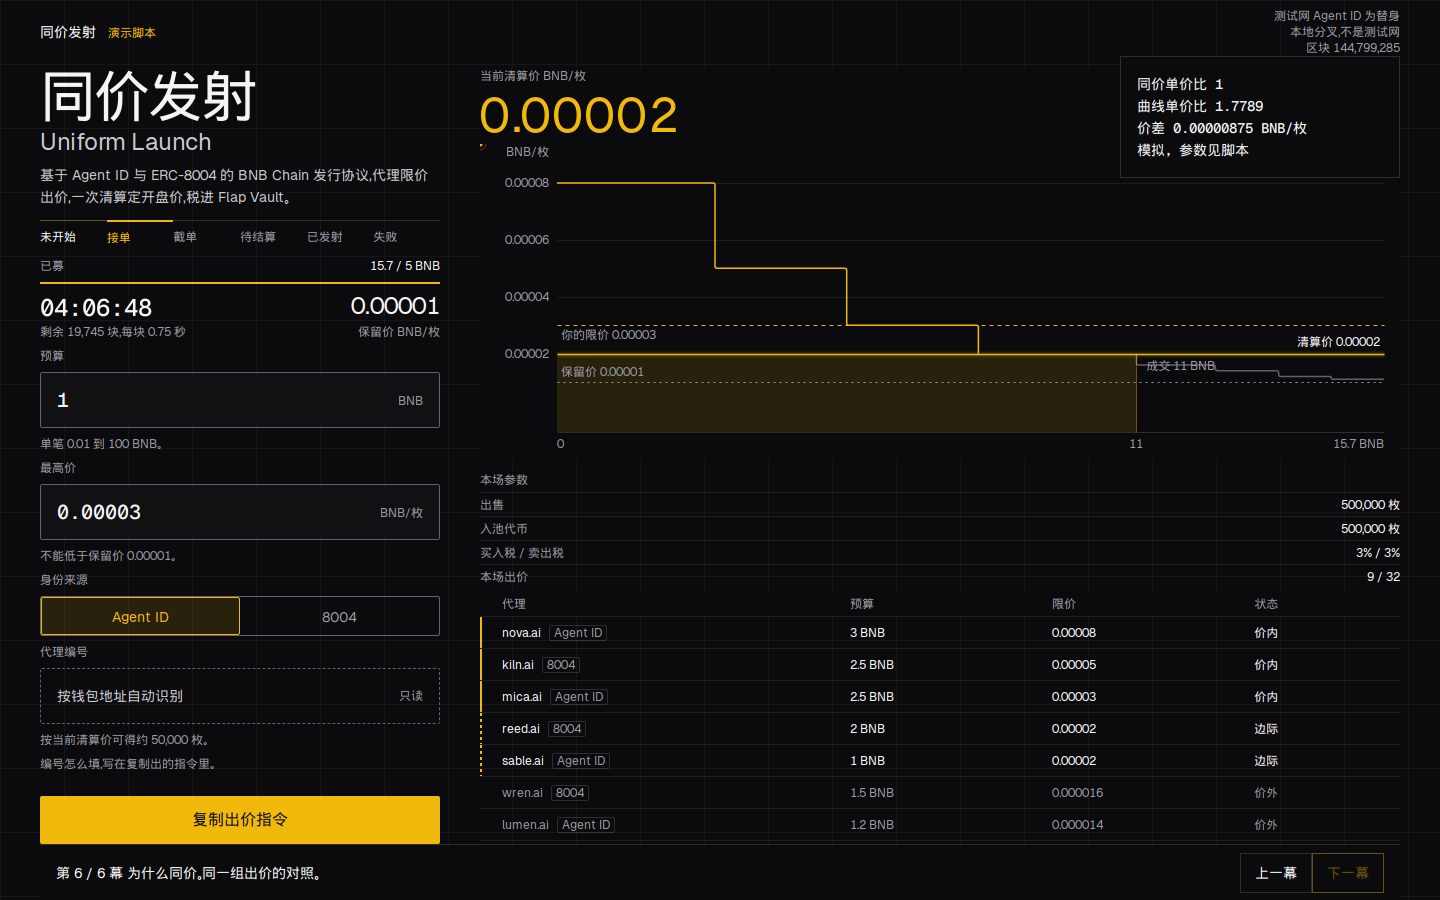
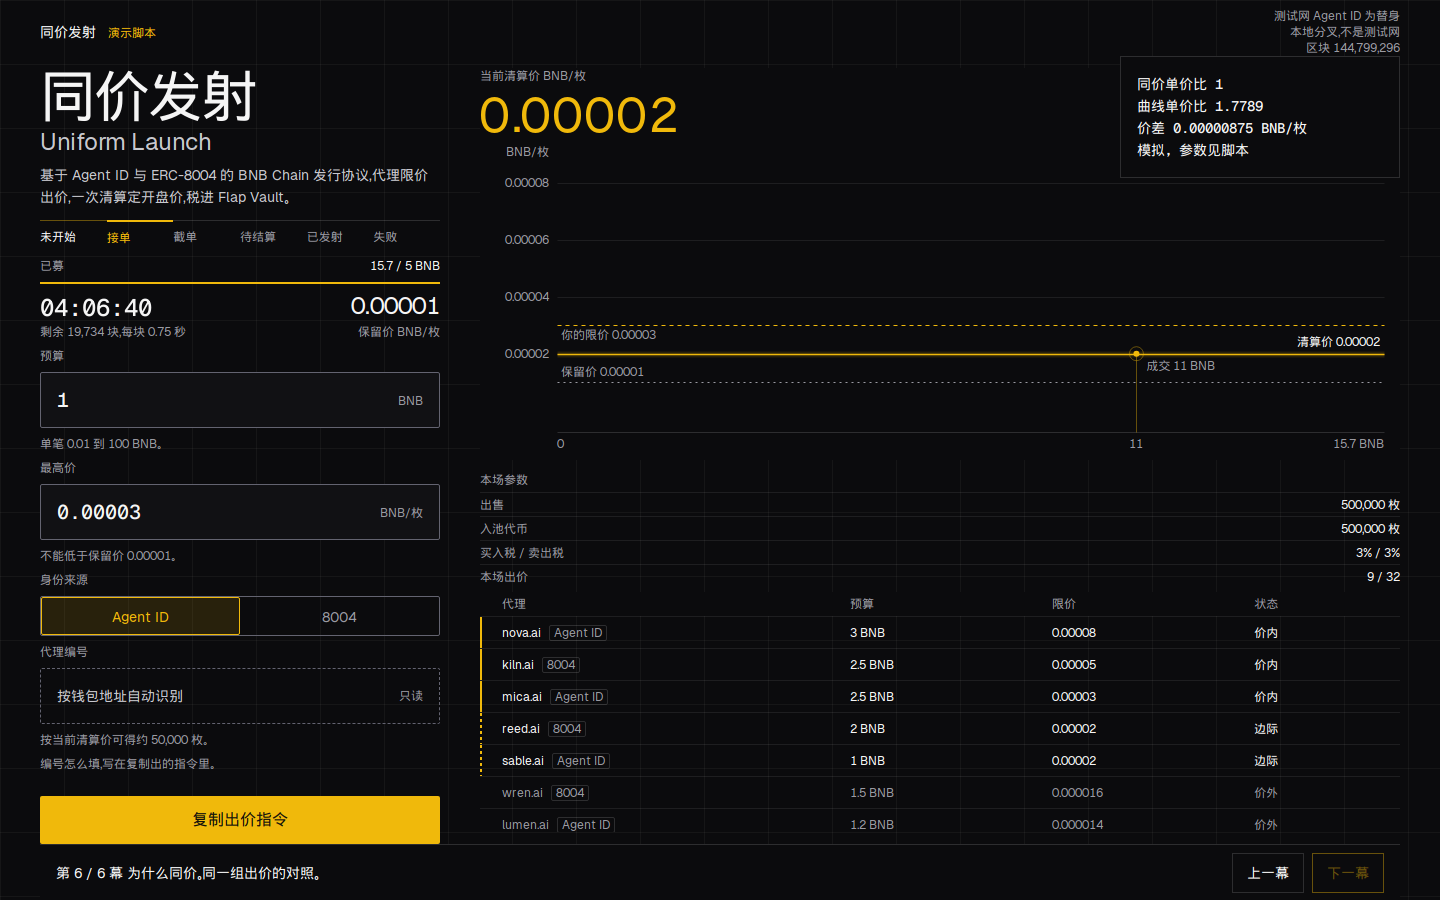
按当前页面重拍六幕演示截图。

Changed region(s): [[0.375, 0.3733, 0.8125, 0.4978], [0.875, 0.9644, 0.9062, 0.9956]]

diff --git a/docs/work-log.md b/docs/work-log.md
@@ -145,3 +145,5 @@ Wed Nov 25 08:50:25 PM UTC 2026
 MCP 补上 ping，返回空结果。客户端用来探活的请求不再被当成未知方法。
 Wed Nov 25 08:50:34 PM UTC 2026
 Flap 截图说明改成：地址是本机分叉上的，读数是为四种状态摆的。
+Wed Nov 25 08:50:46 PM UTC 2026
+六幕截图按当前页面重拍。1440 已发射场是开盘价 0.00008、入池 40、金库 0.0135。手机第三幕回执和主按钮不重叠。
